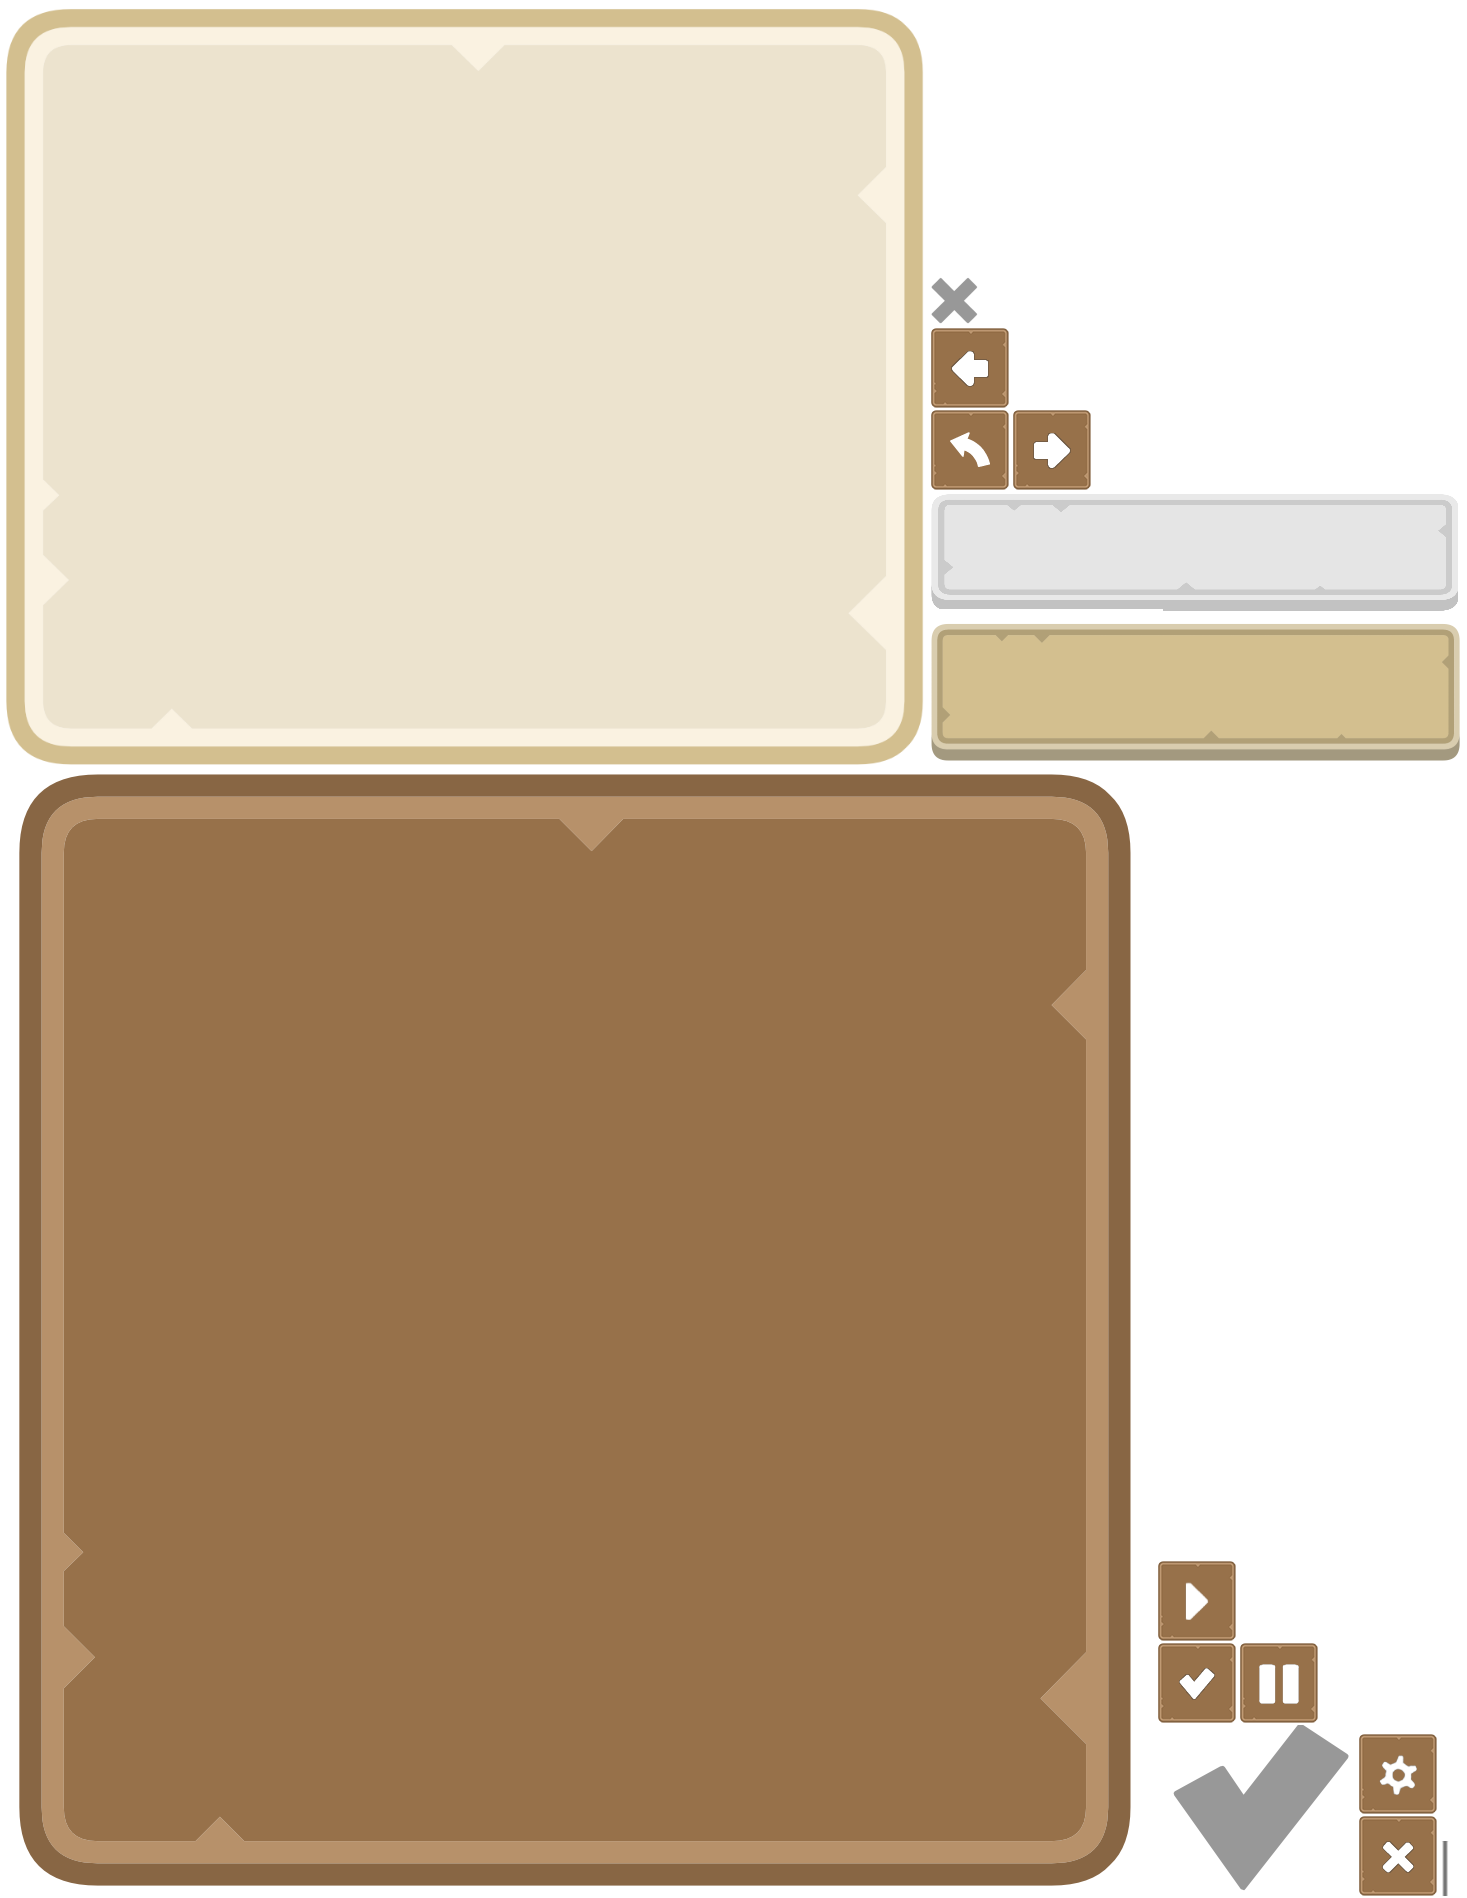
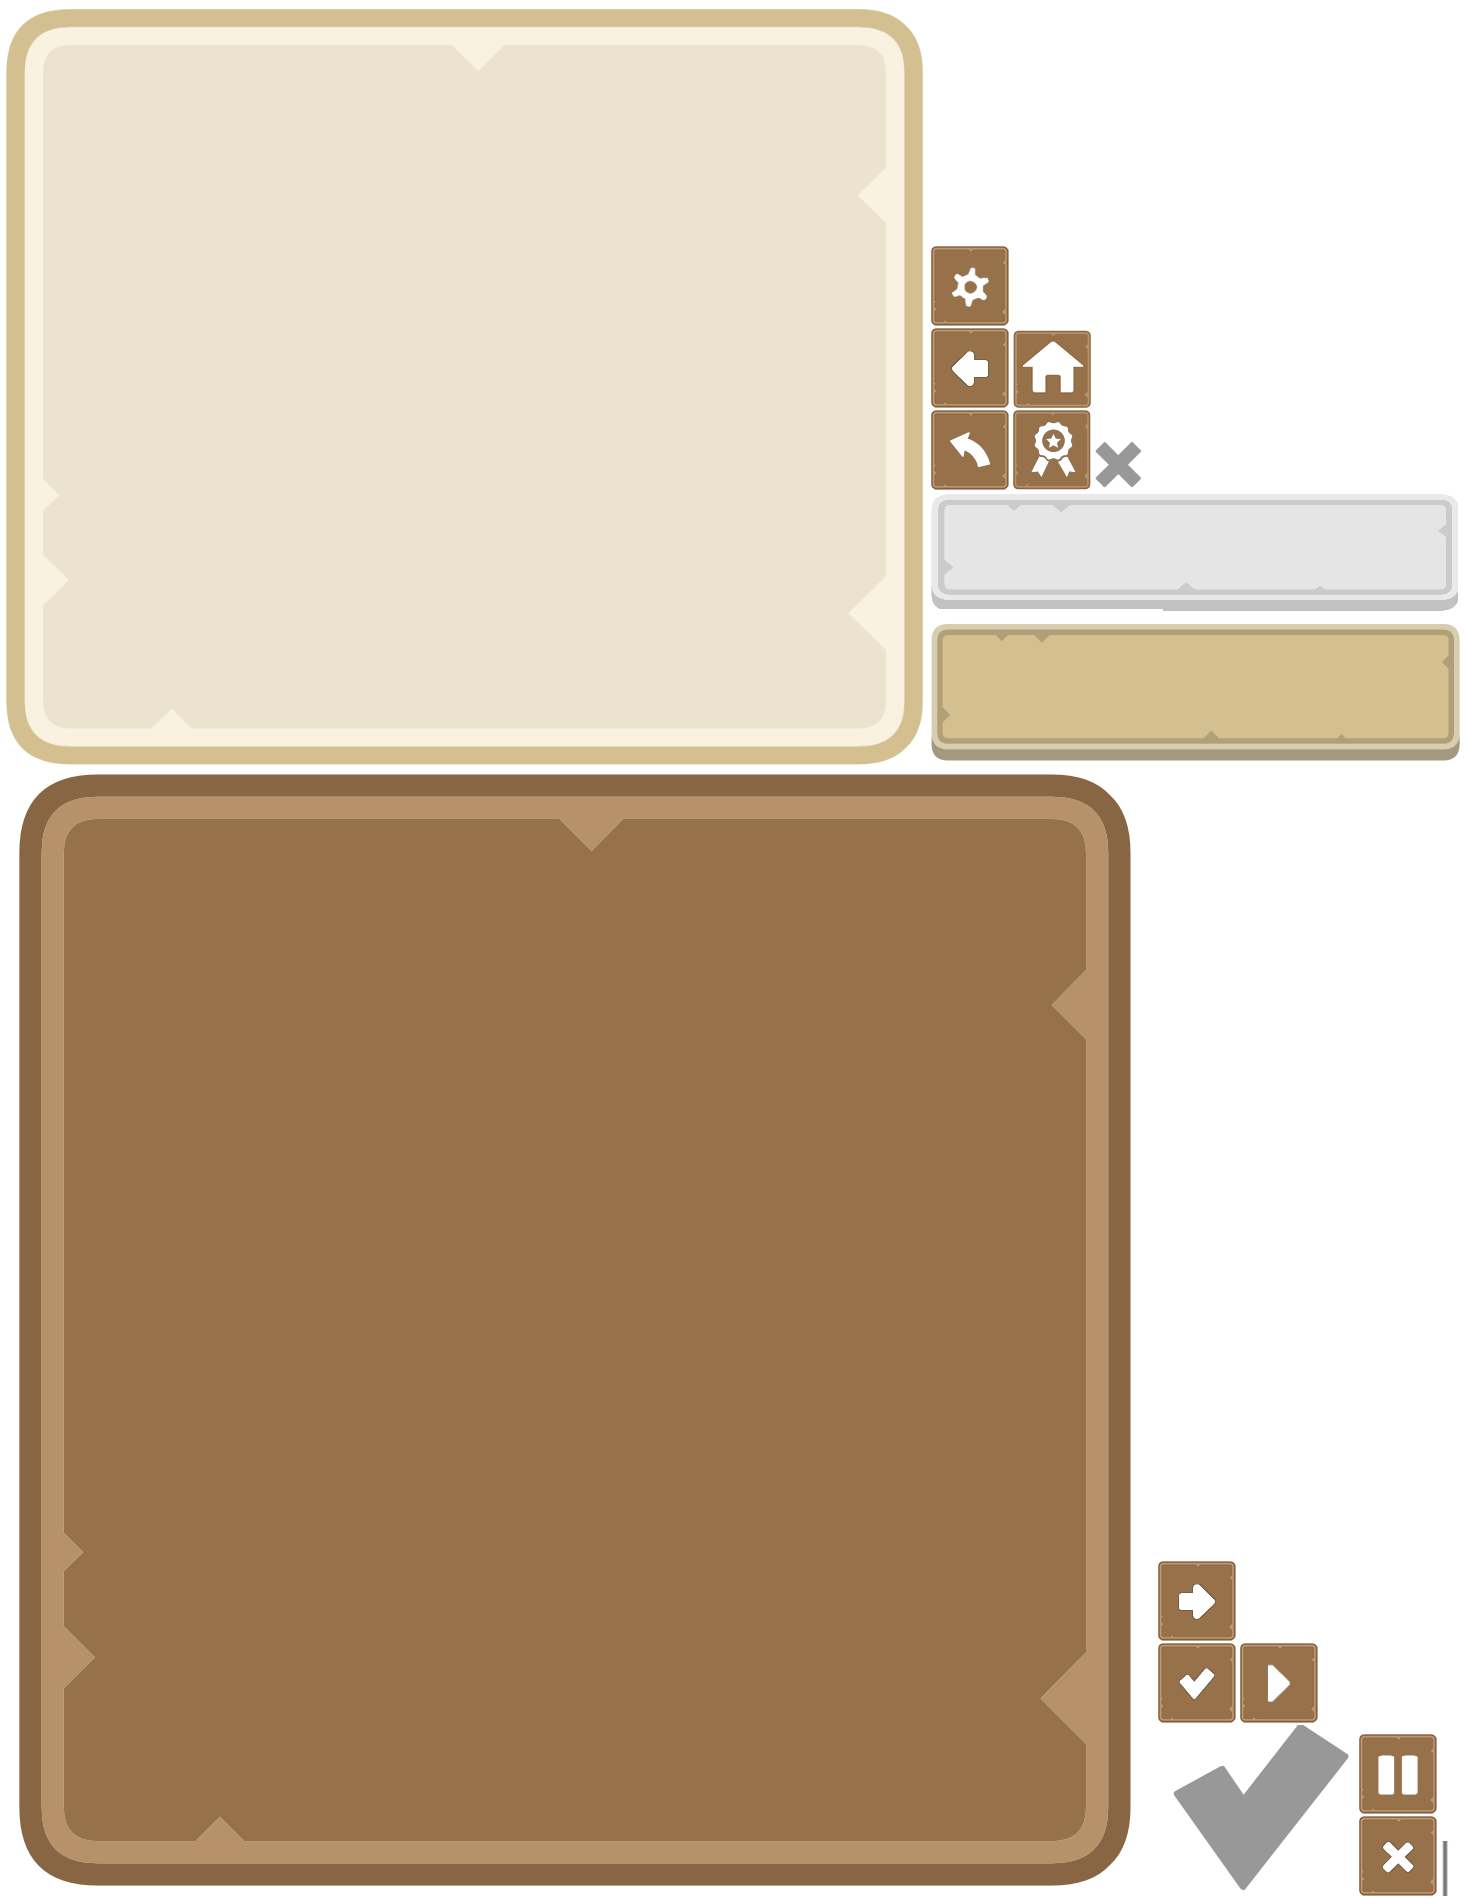
Loot und Home button nicht im Main Menu

diff --git a/core/src/com/haw/projecthorse/level/util/overlay/navbar/MenuNavBar.java b/core/src/com/haw/projecthorse/level/util/overlay/navbar/MenuNavBar.java
@@ -1,5 +1,6 @@
 package com.haw.projecthorse.level.util.overlay.navbar;
 
+import com.haw.projecthorse.gamemanager.GameManagerFactory;
 import com.haw.projecthorse.level.util.overlay.navbar.button.NavbarBackButton;
 import com.haw.projecthorse.level.util.overlay.navbar.button.NavbarLootGalleryButton;
 import com.haw.projecthorse.level.util.overlay.navbar.button.NavbarSettingsButton;
@@ -12,11 +13,13 @@ public class MenuNavBar extends NavBar {
 		NavbarSettingsButton settingsButton = new NavbarSettingsButton();
 		addButton(settingsButton);
 
-		NavbarLootGalleryButton lootButton = new NavbarLootGalleryButton();
-		addButton(lootButton);
-		NavbarStableButton homeButton = new NavbarStableButton();
-		addButton(homeButton);
+		if (!GameManagerFactory.getInstance().getCurrentLevelID().equals("mainMenu")) {
+			NavbarStableButton homeButton = new NavbarStableButton();
+			addButton(homeButton);
+			NavbarLootGalleryButton lootButton = new NavbarLootGalleryButton();
+			addButton(lootButton);
 
+		}
 		NavbarBackButton pauseButton = new NavbarBackButton();
 		addButton(pauseButton);
 
